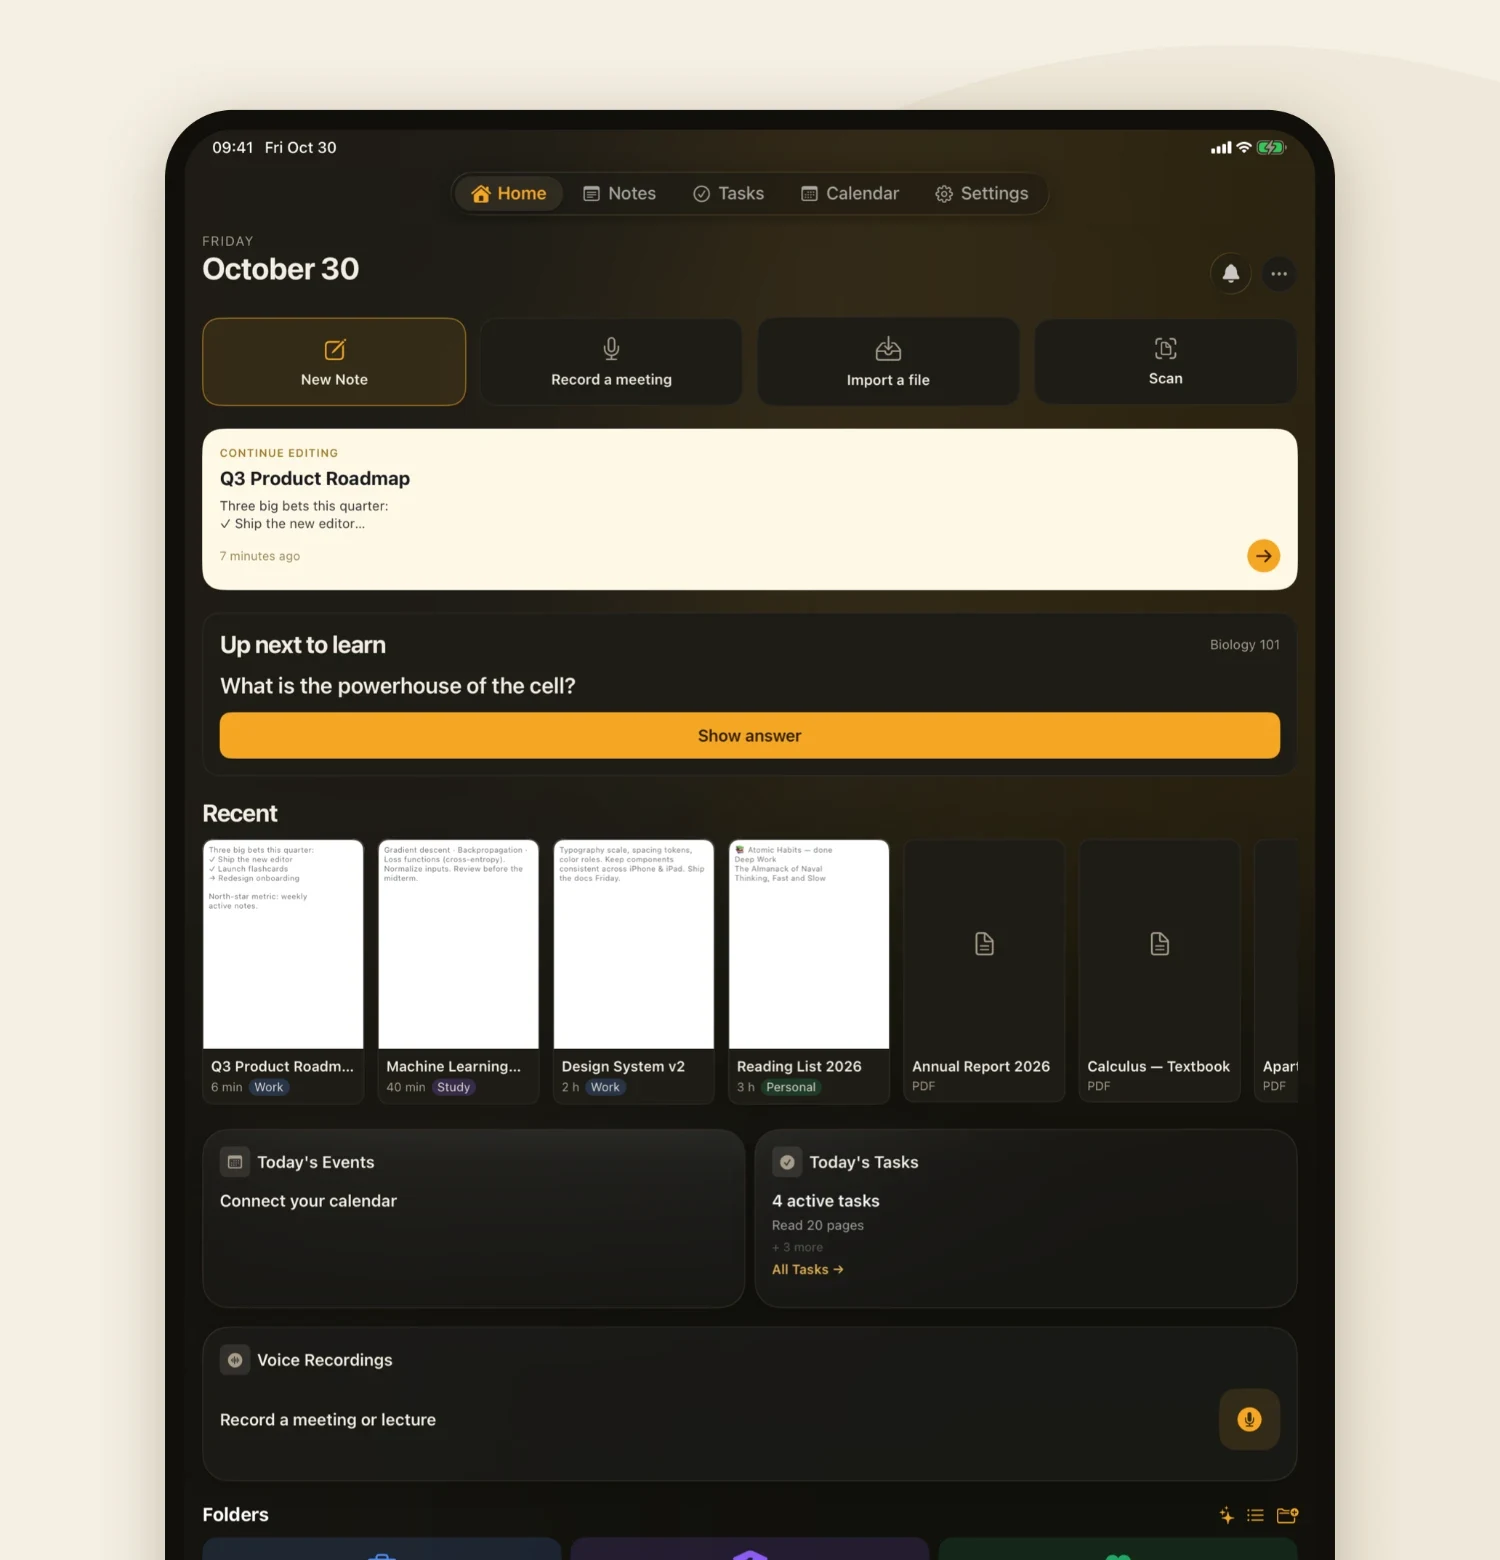
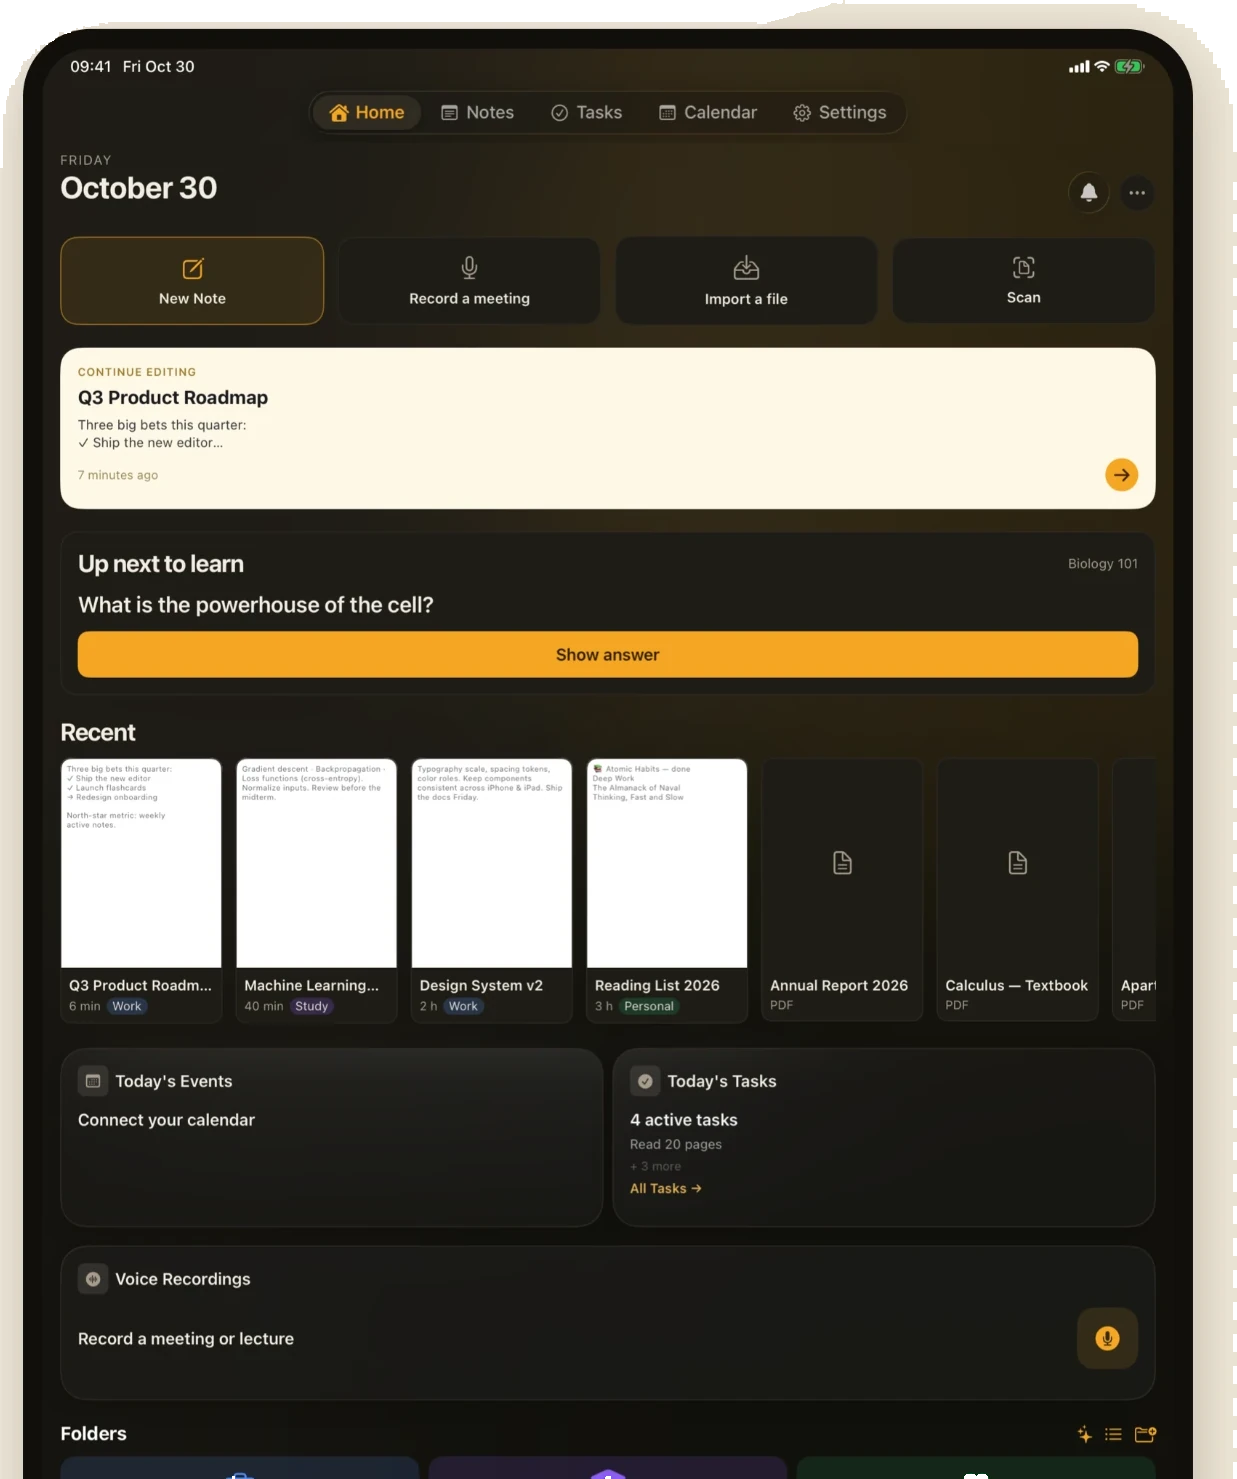
update

diff --git a/index.html b/index.html
@@ -74,7 +74,7 @@
     .stars{color:var(--gold);letter-spacing:2px;font-size:16px}
     .gift{display:inline-flex;align-items:center;gap:8px;padding:6px 14px;border-radius:999px;background:rgba(227,169,62,.13);border:1px solid rgba(227,169,62,.45);color:var(--cream);font-weight:700}
     .hero-shot{position:relative;justify-self:center}
-    .hero-shot img{width:min(330px,80vw);border-radius:44px;box-shadow:0 50px 100px -30px rgba(0,0,0,.85),0 0 90px -18px rgba(227,169,62,.28);border:1px solid rgba(242,206,134,.18)}
+    .hero-shot img{width:min(336px,82vw);height:auto;filter:drop-shadow(0 44px 70px rgba(0,0,0,.78)) drop-shadow(0 0 60px rgba(227,169,62,.14))}
     .float{position:absolute;background:#FFFBF2;color:#241703;font-weight:700;font-size:14px;padding:11px 16px;border-radius:14px;border:1px solid rgba(227,169,62,.55);box-shadow:0 22px 44px -16px rgba(0,0,0,.72);display:flex;align-items:center;gap:8px}
     .float.a{top:64px;left:-26px}
     .float.b{bottom:120px;right:-30px}
@@ -106,7 +106,7 @@
 
     /* SHOWCASE screenshots */
     .shots{display:flex;gap:20px;overflow-x:auto;padding:8px 2px 20px;scroll-snap-type:x mandatory}
-    .shots img{height:520px;border-radius:34px;scroll-snap-align:center;border:1px solid rgba(242,206,134,.14);box-shadow:0 40px 80px -34px rgba(0,0,0,.8);flex:0 0 auto}
+    .shots img{height:540px;width:auto;scroll-snap-align:center;filter:drop-shadow(0 34px 60px rgba(0,0,0,.72));flex:0 0 auto}
     @media(max-width:820px){.shots img{height:420px}}
 
     /* PRICING */
@@ -167,7 +167,7 @@
       </div>
     </div>
     <div class="hero-shot">
-      <img src="./shots-2026/iphone-home.webp" alt="LuNote home screen on iPhone — notes, tasks and what to study in one place" width="921" height="1540" loading="eager">
+      <img src="./shots-2026/iphone-home.webp" alt="LuNote home screen on iPhone — notes, tasks and what to study in one place" loading="eager">
       <div class="float a">✨ Summarized in seconds</div>
       <div class="float b">🪄 Turned into a quiz</div>
     </div>
@@ -209,13 +209,13 @@
   <!-- SCREENSHOTS -->
   <div class="wrap"><section style="padding-top:20px">
     <div class="shots">
-      <img src="./shots-2026/iphone-notes.webp" alt="Every note in one library in LuNote" width="921" height="1540" loading="lazy">
-      <img src="./shots-2026/iphone-editor.webp" alt="Write by hand or type on the note editor in LuNote" width="921" height="1540" loading="lazy">
-      <img src="./shots-2026/iphone-ai.webp" alt="AI tools in LuNote — summarize, quiz and flashcards" width="921" height="1540" loading="lazy">
-      <img src="./shots-2026/ipad-home.webp" alt="LuNote home on iPad — notes, tasks and calendar together" width="1500" height="1560" loading="lazy">
-      <img src="./shots-2026/iphone-calendar.webp" alt="Plans and notes together on the LuNote calendar" width="921" height="1540" loading="lazy">
-      <img src="./shots-2026/iphone-tasks.webp" alt="Tasks on a board, list or timeline in LuNote" width="921" height="1540" loading="lazy">
-      <img src="./shots-2026/iphone-focus.webp" alt="Focus timer with ambient sounds in LuNote" width="921" height="1540" loading="lazy">
+      <img src="./shots-2026/iphone-notes.webp" alt="Every note in one library in LuNote" loading="lazy">
+      <img src="./shots-2026/iphone-editor.webp" alt="Write by hand or type on the note editor in LuNote" loading="lazy">
+      <img src="./shots-2026/iphone-ai.webp" alt="AI tools in LuNote — summarize, quiz and flashcards" loading="lazy">
+      <img src="./shots-2026/ipad-home.webp" alt="LuNote home on iPad — notes, tasks and calendar together" loading="lazy">
+      <img src="./shots-2026/iphone-calendar.webp" alt="Plans and notes together on the LuNote calendar" loading="lazy">
+      <img src="./shots-2026/iphone-tasks.webp" alt="Tasks on a board, list or timeline in LuNote" loading="lazy">
+      <img src="./shots-2026/iphone-focus.webp" alt="Focus timer with ambient sounds in LuNote" loading="lazy">
     </div>
   </section></div>
 
